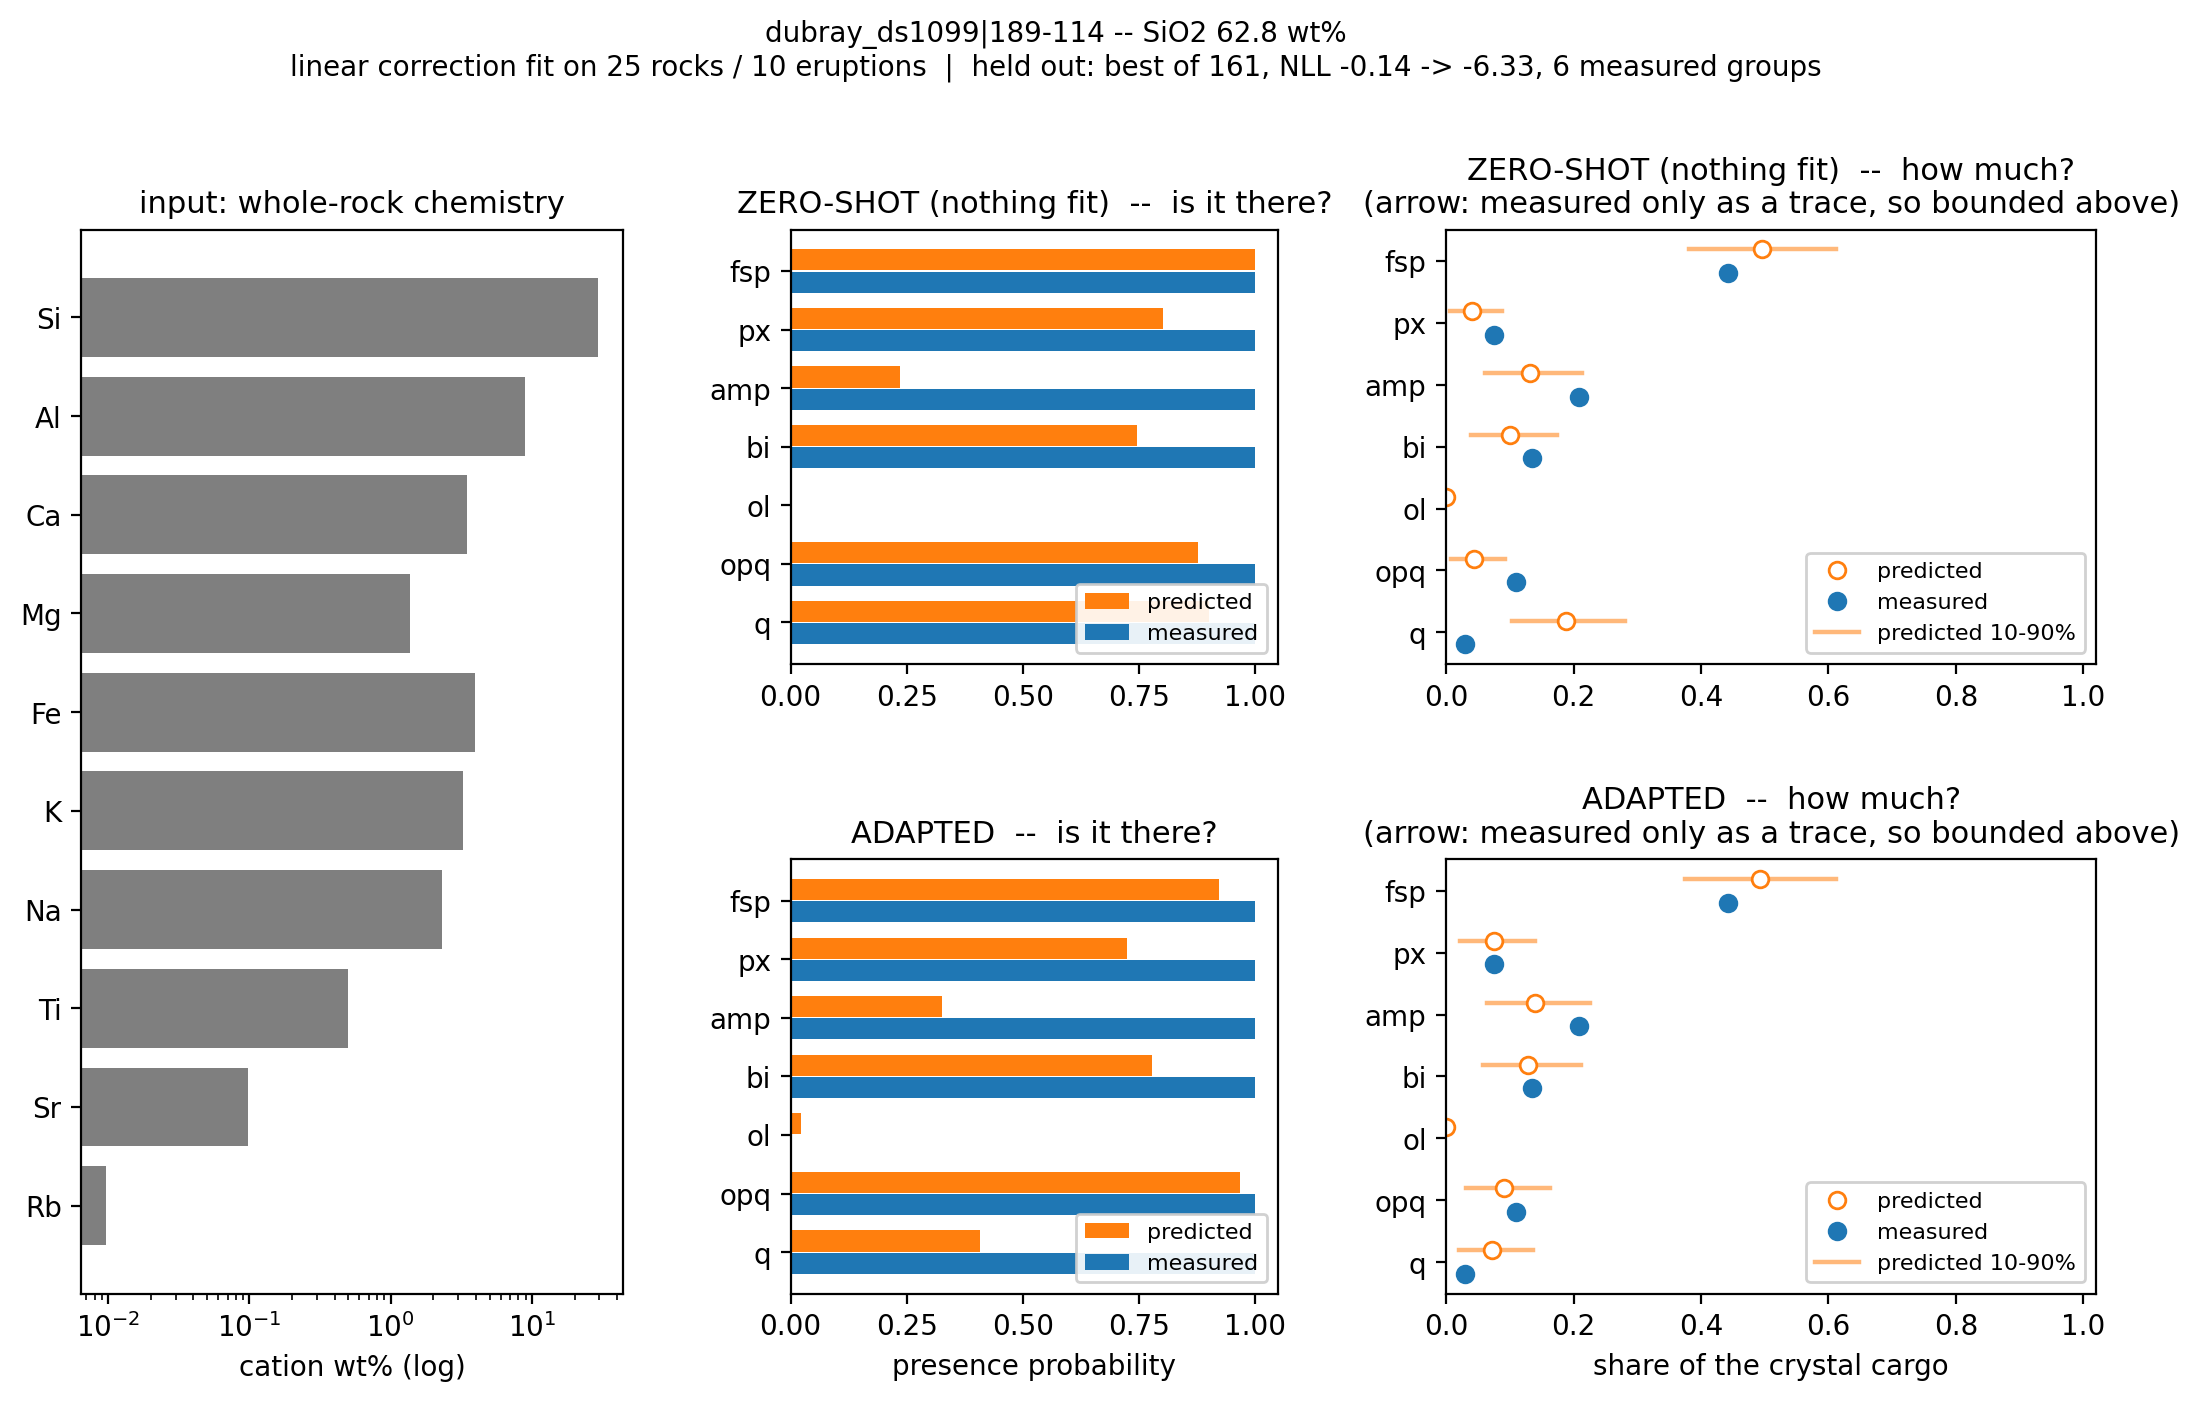
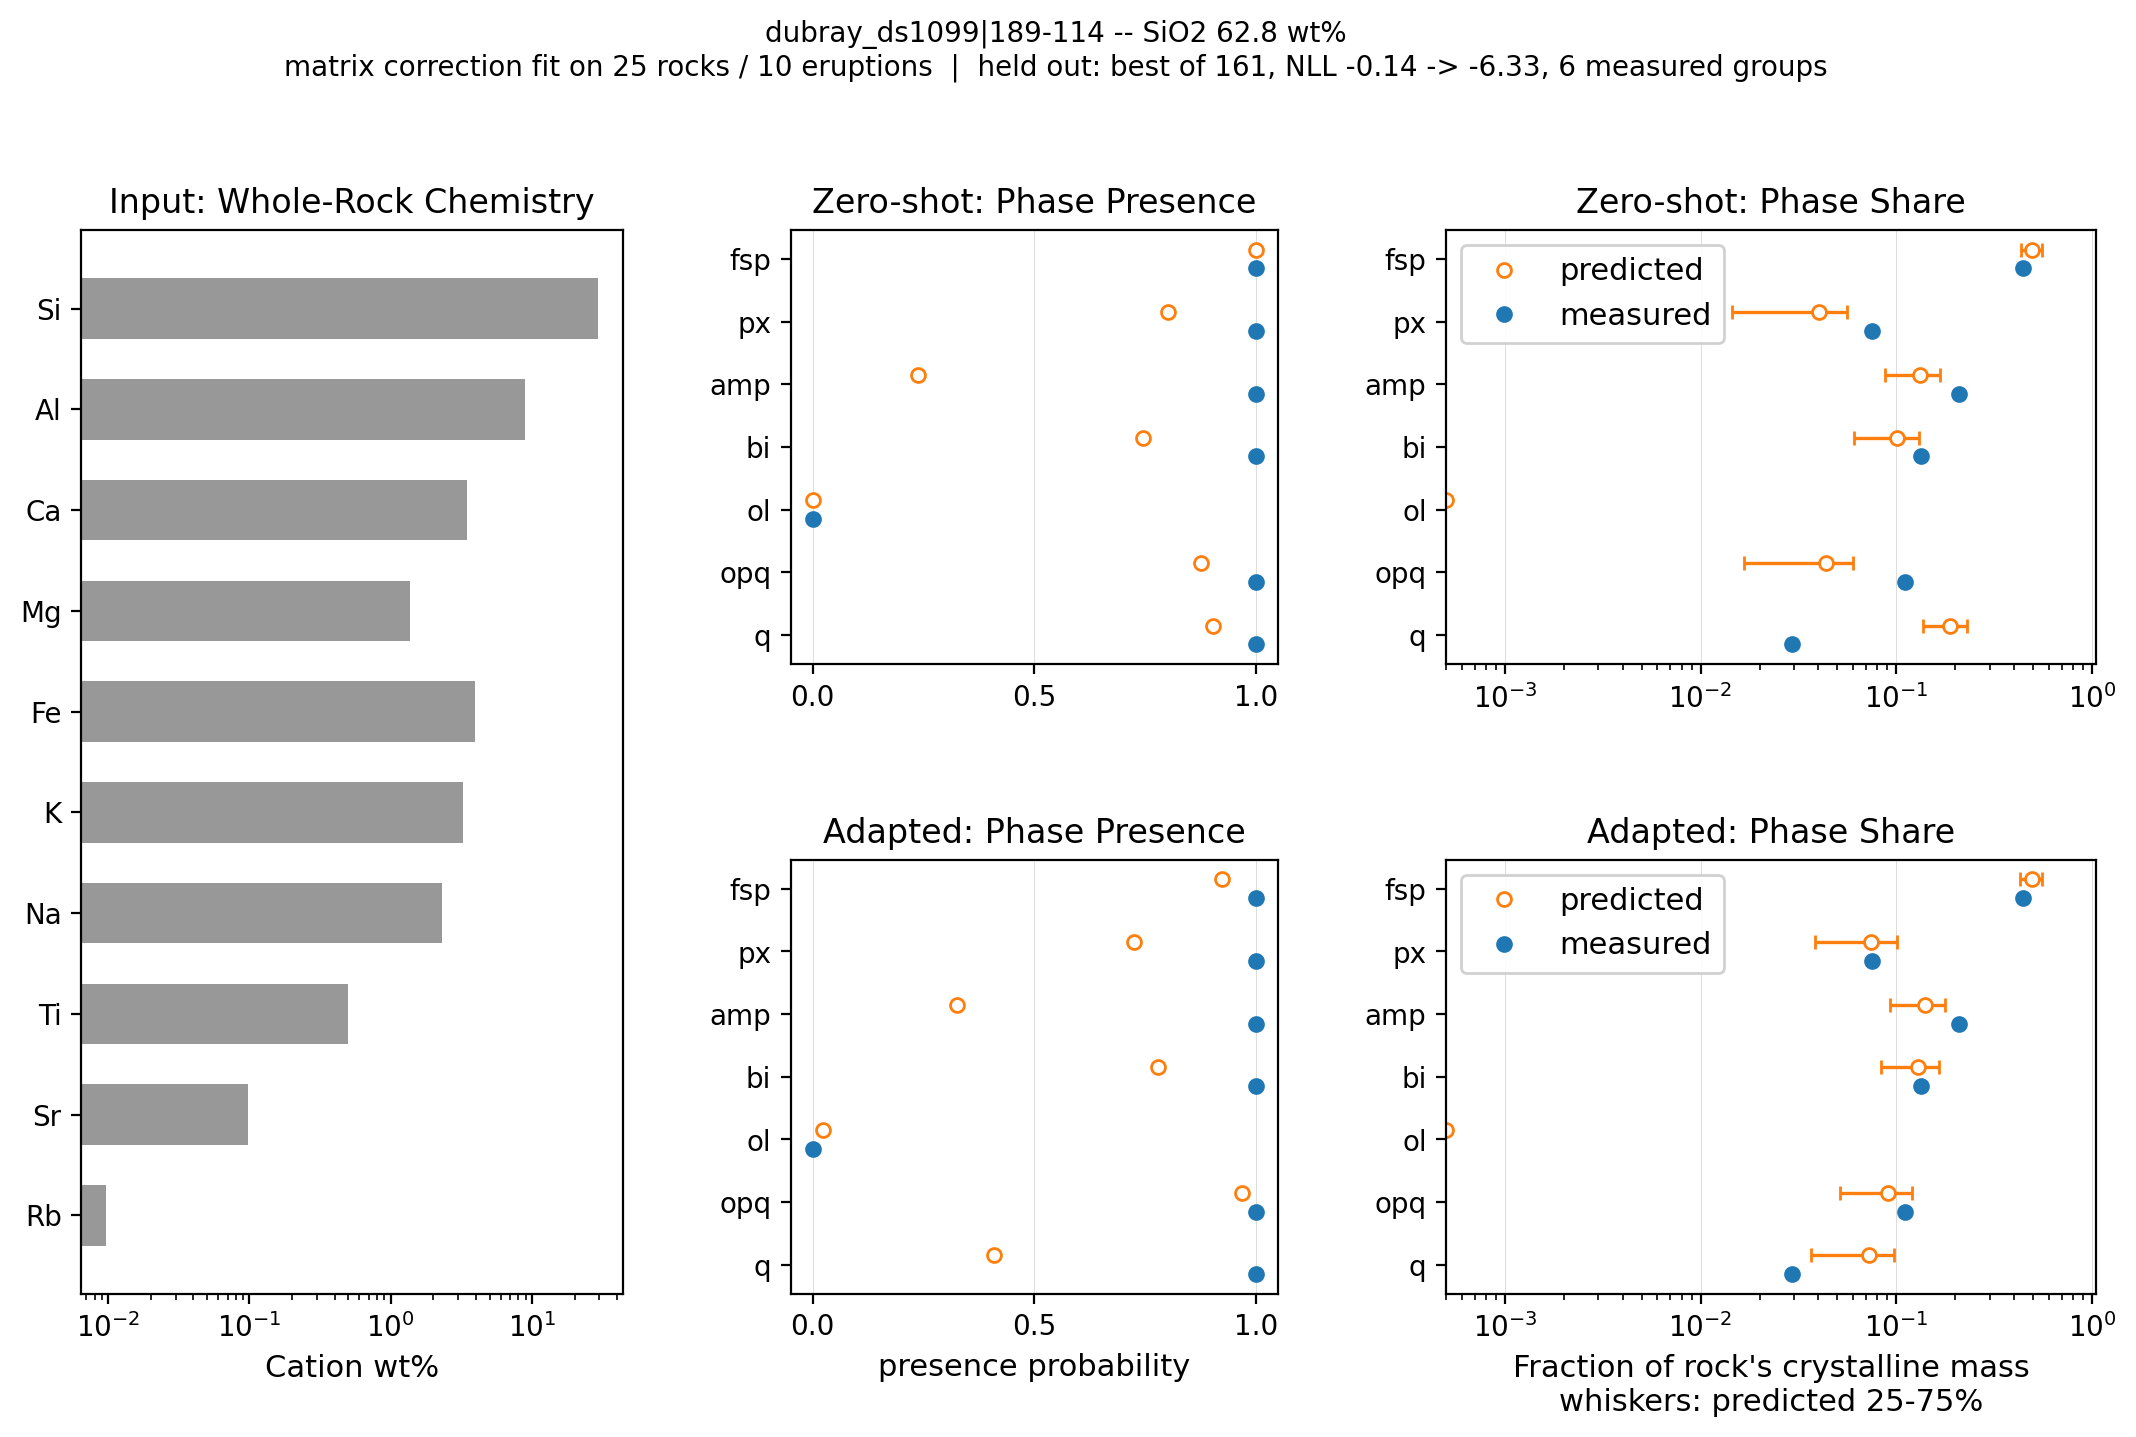
real-rock cards adopt the corpus card's p25-p75 whisker and plain axis titles; CARD_INTERVAL_Q keeps share_interval's 80% default intact so plot_magnitude_parity's cov80 label stays true; few-shot cards regenerated with cards.json byte-identical

diff --git a/explorations/real_rock_fewshot/run_cards.py b/explorations/real_rock_fewshot/run_cards.py
@@ -30,6 +30,7 @@ import torch
 from cnmineral.eval.latent import bulk_latents, load_encoder_from_checkpoint
 from cnmineral.eval.mode_head import conditional_mean
 from cnmineral.eval.real_rock import (
+    CARD_INTERVAL_Q,
     GROUPS,
     coarsen_presence,
     load_benchmark,
@@ -170,7 +171,8 @@ def main() -> None:
         arms = {}
         for name, alpha in (("zero", test.alpha7[local:local + 1].numpy()),
                             ("adapted", adj_alpha.numpy())):
-            lo, hi = share_interval(alpha, measured[row:row + 1])
+            lo, hi = share_interval(alpha, measured[row:row + 1],
+                                    q=CARD_INTERVAL_Q)
             arms[name] = (conditional_mean(alpha, measured[row:row + 1]), lo, hi)
 
         # the card panels index by benchmark row, so scatter the single-row
